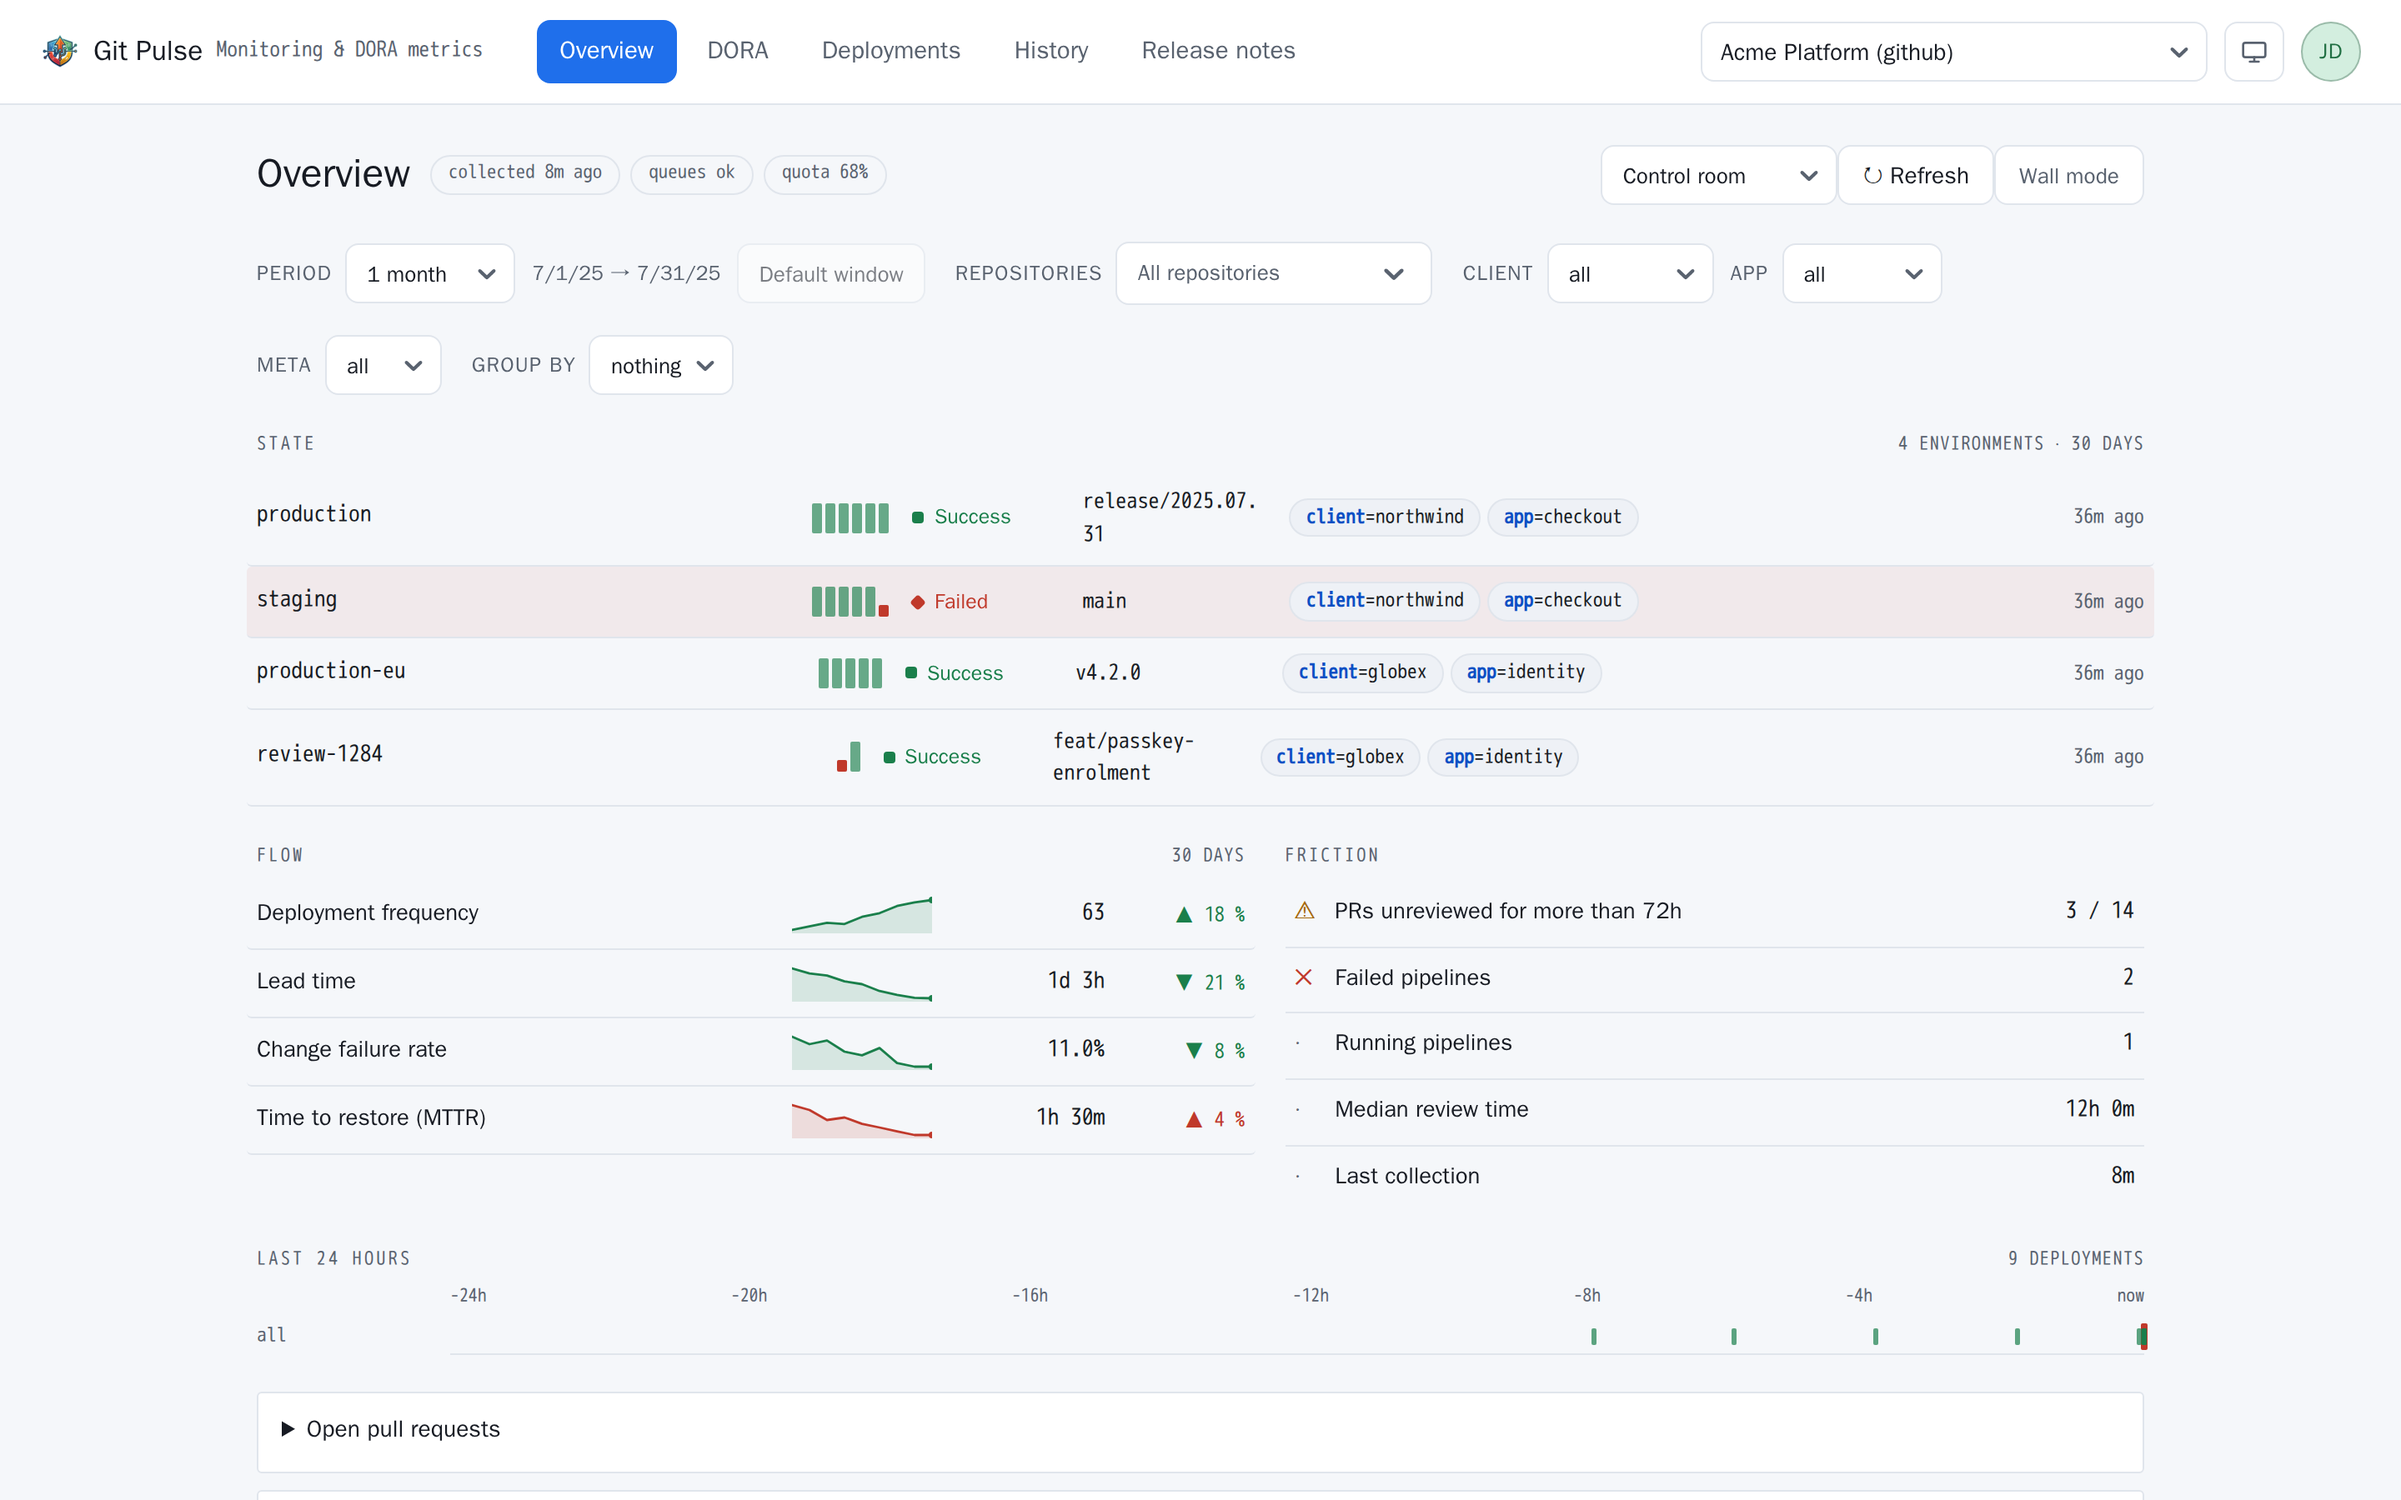
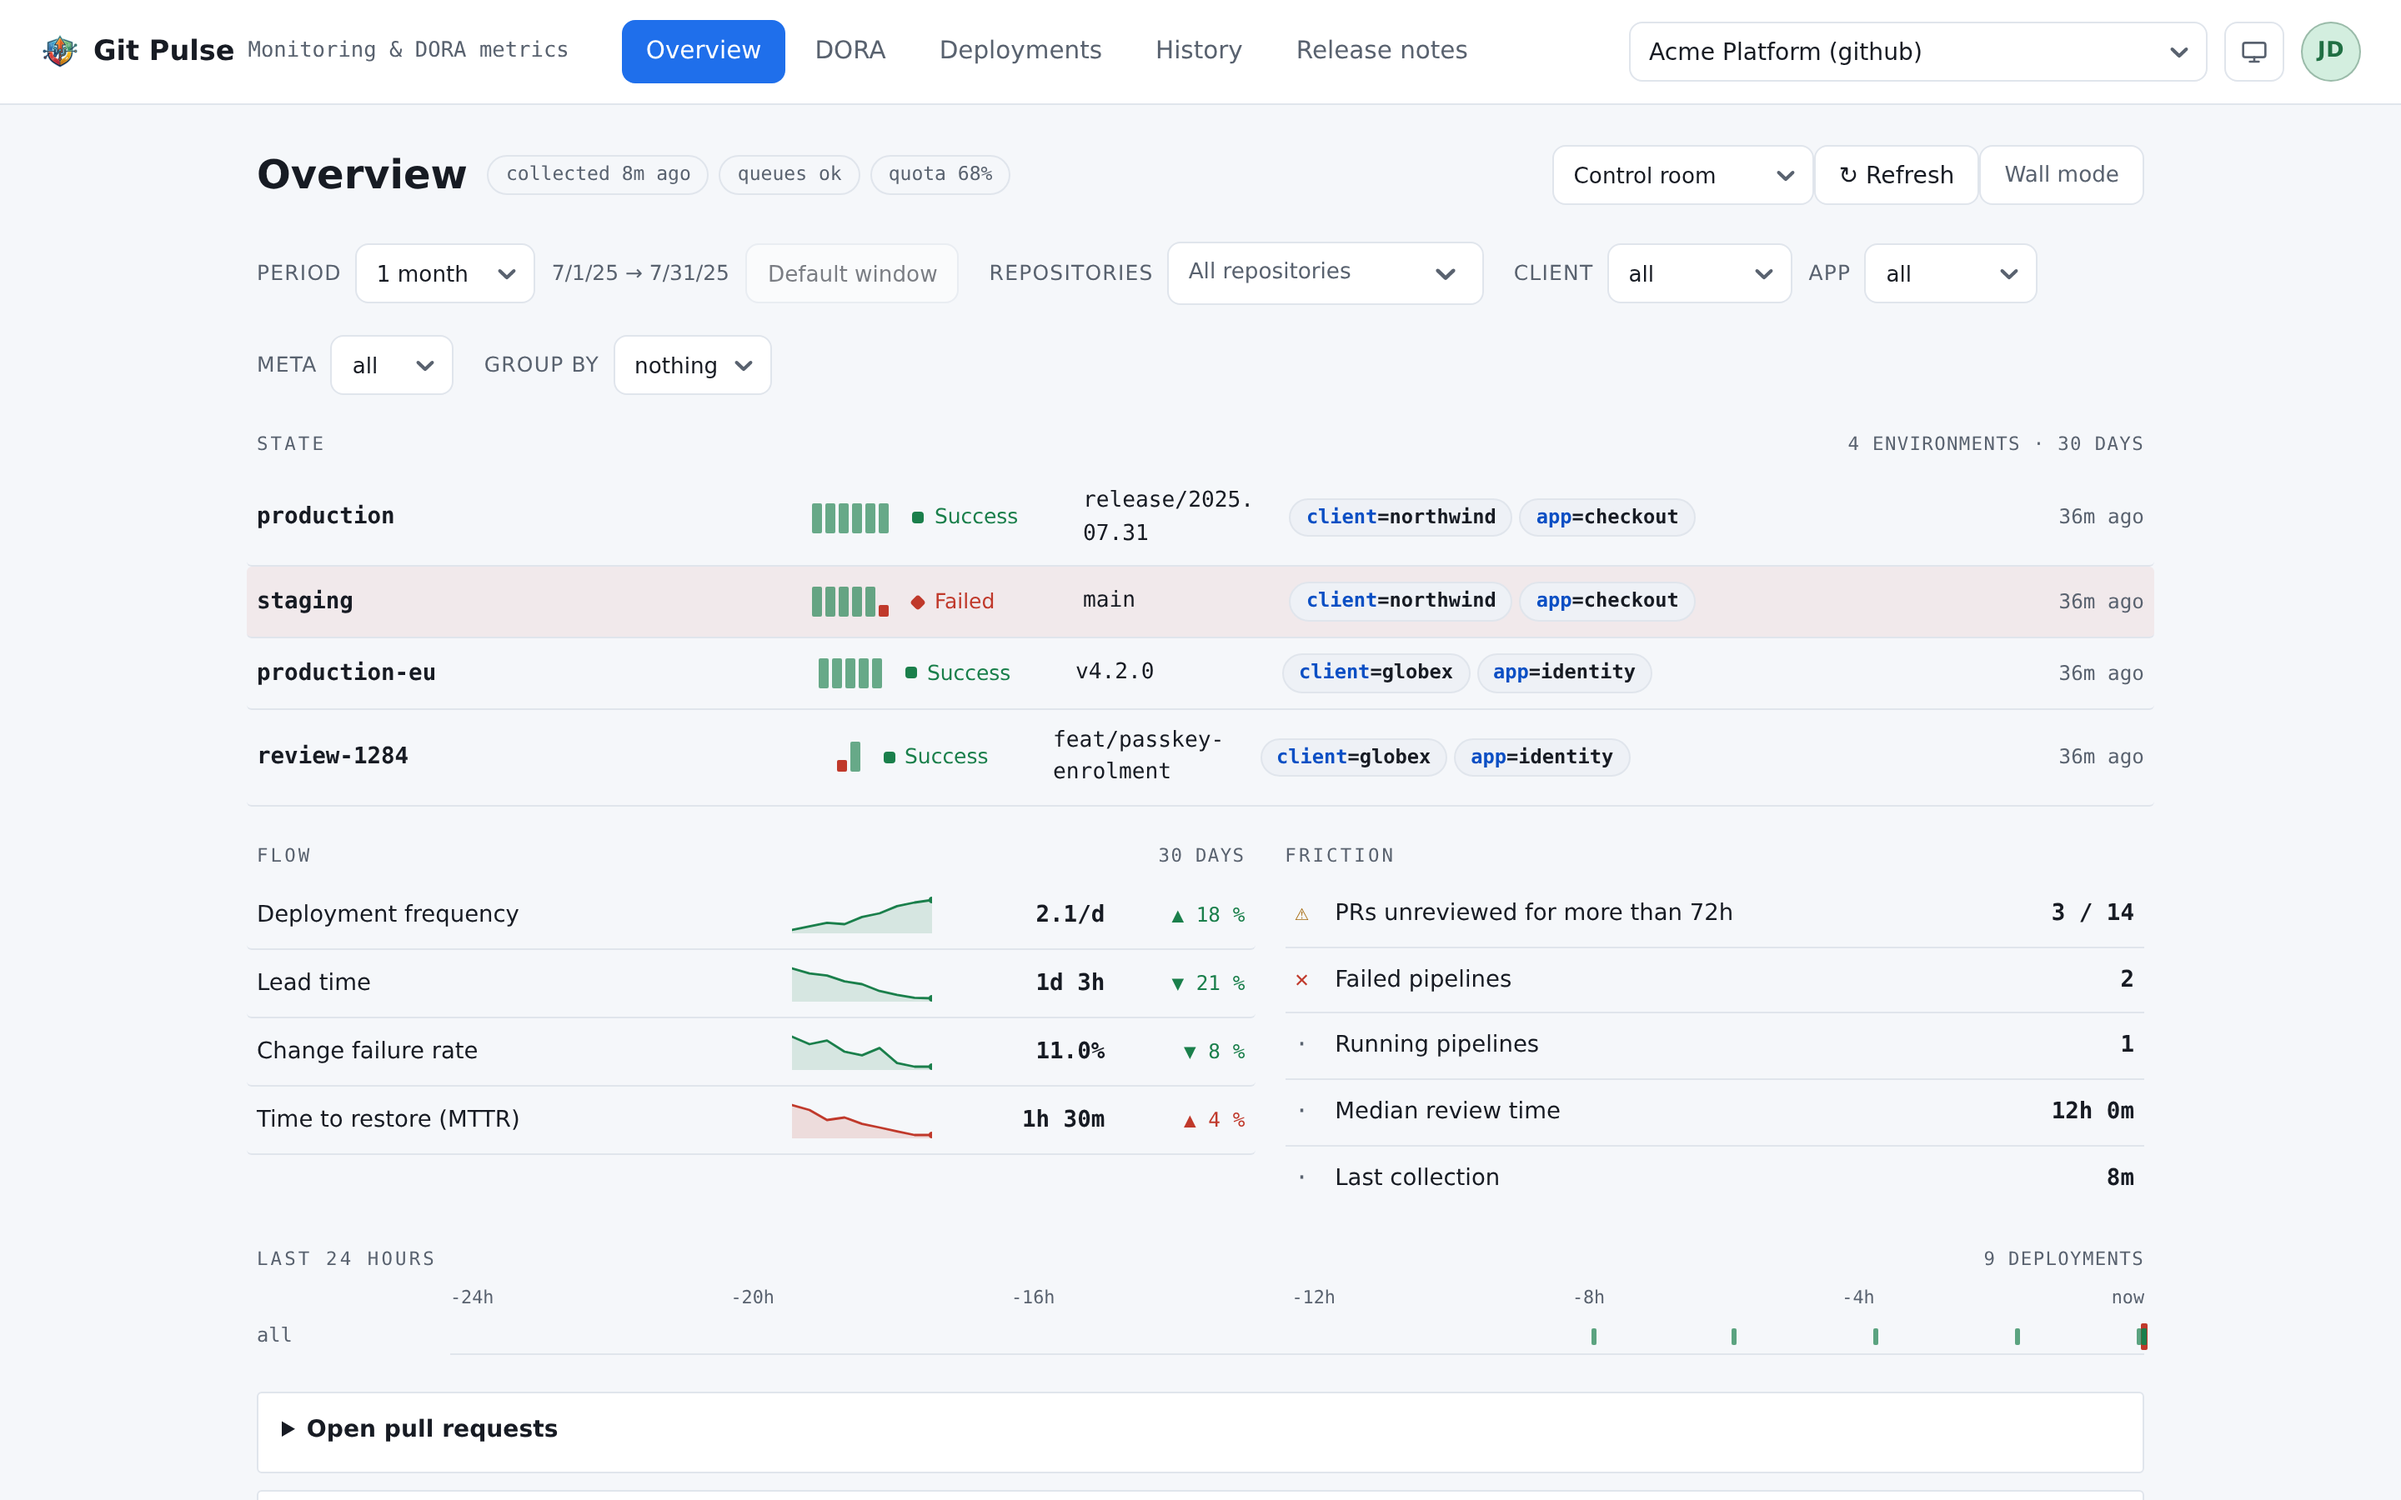
fix(e2e): stub the series endpoint as the list it answers
It answers one series per metric asked for; the fixture was a single
series, so the DORA page threw folding it and photographed blank. Read
off the query now, in the order asked, which is what both readers rely
on: the grid keys by metric, the metric page takes the first.

The guide's other figures come along: they were last taken where the
fonts render differently, and a suite regenerated in halves shows it.

diff --git a/front/e2e/fixtures.ts b/front/e2e/fixtures.ts
@@ -602,20 +602,43 @@ export const METRIC_SNAPSHOTS: Page<MetricSnapshotPublic> = {
   page: { total: 88, limit: 200, offset: 0, hasMore: false },
 };
 
-/** A `MetricSeries`: the trend a metric sub-page plots. */
-export const METRIC_SERIES: MetricSeries = {
-  metric: 'lead_time',
-  dimensions: {},
-  bucket: 'day',
-  points: [
-    190_000, 186_000, 174_000, 171_000, 168_000, 159_000, 150_000, 148_000, 141_000, 133_000,
-    120_000, 118_000, 111_000, 108_000, 104_000, 99_000, 97_200,
-  ].map((value, i) => ({
-    at: `2025-07-${(15 + i).toString().padStart(2, '0')}T00:00:00Z`,
-    value,
-  })),
-  snapshotCount: 412,
+/**
+ * Lead time day by day, denser than the sparkline's eleven points: the metric
+ * page draws a chart with an axis where the grid draws a thumbnail.
+ */
+const LEAD_TIME_TREND = [
+  190_000, 186_000, 174_000, 171_000, 168_000, 159_000, 150_000, 148_000, 141_000, 133_000, 120_000,
+  118_000, 111_000, 108_000, 104_000, 99_000, 97_200,
+];
+
+/** A `MetricSeries`: one metric's trend, oldest first, ending the day of `NOW`. */
+const SERIES = (metric: string): MetricSeries => {
+  const values = metric === 'lead_time' ? LEAD_TIME_TREND : (HISTORY[metric] ?? []);
+  return {
+    metric,
+    dimensions: {},
+    bucket: 'day',
+    points: values.map((value, i) => ({
+      // Counted back from the last day rather than forward from a fixed one,
+      // so a series of any length ends where the report's period does.
+      at: `2025-07-${(31 - (values.length - 1 - i)).toString().padStart(2, '0')}T00:00:00Z`,
+      value,
+    })),
+    snapshotCount: values.length * 24,
+  };
 };
+
+/**
+ * What the series endpoint answers: one series per metric asked for, in the
+ * order asked.
+ *
+ * Read off the query rather than fixed, because that order is the whole of
+ * what the callers rely on — the DORA grid keys its sparklines by metric name,
+ * and a metric page plots the first series back. A constant answered every
+ * metric page with whichever metric happened to be first in it.
+ */
+export const METRIC_SERIES = (url: string): MetricSeries[] =>
+  new URL(url).searchParams.getAll('metric').map(SERIES);
 
 /**
  * Incidents over the journal's window, which is the delivery stream's whole
@@ -890,11 +913,17 @@ export const RELEASE_NOTES: ReleaseNotes = {
 };
 
 /**
+ * What a route answers: a body, or — where the shape of the answer depends on
+ * what was asked for — a function of the request URL.
+ */
+export type Answer = unknown | ((url: string) => unknown);
+
+/**
  * Every route the screens touch, most specific first — the collections hang off
  * `/sources/:id/…`, so a pattern for `sources` would swallow them if it came
  * before theirs.
  */
-export const ROUTES: Array<[RegExp, unknown]> = [
+export const ROUTES: Array<[RegExp, Answer]> = [
   [/\/api\/auth\/me$/, AUTH],
   [/\/api\/settings(\?|$)/, SETTINGS],
   [/\/api\/overview\//, OVERVIEW],
@@ -929,3 +958,16 @@ export const ROUTES: Array<[RegExp, unknown]> = [
   [/\/api\/jobs/, JOBS],
   [/\/api\/users/, { items: [USER], page: { total: 1, limit: 25, offset: 0 } }],
 ];
+
+/**
+ * The body a stubbed request is answered with: the first pattern that matches
+ * it, and the empty page for anything else — an unlisted route reads as a page
+ * with nothing in it rather than as a failed request.
+ *
+ * `extra` comes first, for a suite that answers one route differently.
+ */
+export function answer(url: string, extra: Array<[RegExp, Answer]> = []): unknown {
+  const match = [...extra, ...ROUTES].find(([pattern]) => pattern.test(url));
+  const body = match ? match[1] : EMPTY_PAGE;
+  return typeof body === 'function' ? (body as (url: string) => unknown)(url) : body;
+}

diff --git a/front/e2e/doc-screenshots.spec.ts b/front/e2e/doc-screenshots.spec.ts
@@ -1,5 +1,5 @@
 import { test, type Page } from '@playwright/test';
-import { DORA_TRUNCATED, ROUTES, EMPTY_PAGE, NOW } from './fixtures';
+import { answer, DORA_TRUNCATED, NOW, type Answer } from './fixtures';
 
 /**
  * The screenshots the user guide shows.
@@ -155,15 +155,12 @@ const SHOTS: Shot[] = [
   { name: 'account', path: '/account', ready: '.account-head' },
 ];
 
-async function stubApi(page: Page, extra: Array<[RegExp, unknown]> = []) {
-  const routes = [...extra, ...ROUTES];
+async function stubApi(page: Page, extra: Array<[RegExp, Answer]> = []) {
   await page.route('**/api/**', async (route) => {
-    const url = route.request().url();
-    const match = routes.find(([pattern]) => pattern.test(url));
     await route.fulfill({
       status: 200,
       contentType: 'application/json',
-      body: JSON.stringify(match ? match[1] : EMPTY_PAGE),
+      body: JSON.stringify(answer(route.request().url(), extra)),
     });
   });
 }

diff --git a/front/e2e/screens.spec.ts b/front/e2e/screens.spec.ts
@@ -1,5 +1,5 @@
 import { test, expect, type Page } from '@playwright/test';
-import { ROUTES, EMPTY_PAGE } from './fixtures';
+import { answer } from './fixtures';
 
 /**
  * What the pages actually look like, at the widths they are actually read at.
@@ -60,12 +60,10 @@ const PAGES: Array<{
 /** Answers every API call from the fixtures, so a screen never waits on a network. */
 async function stubApi(page: Page) {
   await page.route('**/api/**', async (route) => {
-    const url = route.request().url();
-    const match = ROUTES.find(([pattern]) => pattern.test(url));
     await route.fulfill({
       status: 200,
       contentType: 'application/json',
-      body: JSON.stringify(match ? match[1] : EMPTY_PAGE),
+      body: JSON.stringify(answer(route.request().url())),
     });
   });
 }

diff --git a/front/e2e/screenshots.spec.ts b/front/e2e/screenshots.spec.ts
@@ -1,5 +1,5 @@
 import { test, type Page } from '@playwright/test';
-import { ROUTES, EMPTY_PAGE, NOW } from './fixtures';
+import { answer, NOW } from './fixtures';
 
 /**
  * The screenshots the documentation shows, taken from the real application.
@@ -26,12 +26,10 @@ const SHOTS = [
 
 async function stubApi(page: Page) {
   await page.route('**/api/**', async (route) => {
-    const url = route.request().url();
-    const match = ROUTES.find(([pattern]) => pattern.test(url));
     await route.fulfill({
       status: 200,
       contentType: 'application/json',
-      body: JSON.stringify(match ? match[1] : EMPTY_PAGE),
+      body: JSON.stringify(answer(route.request().url())),
     });
   });
 }
